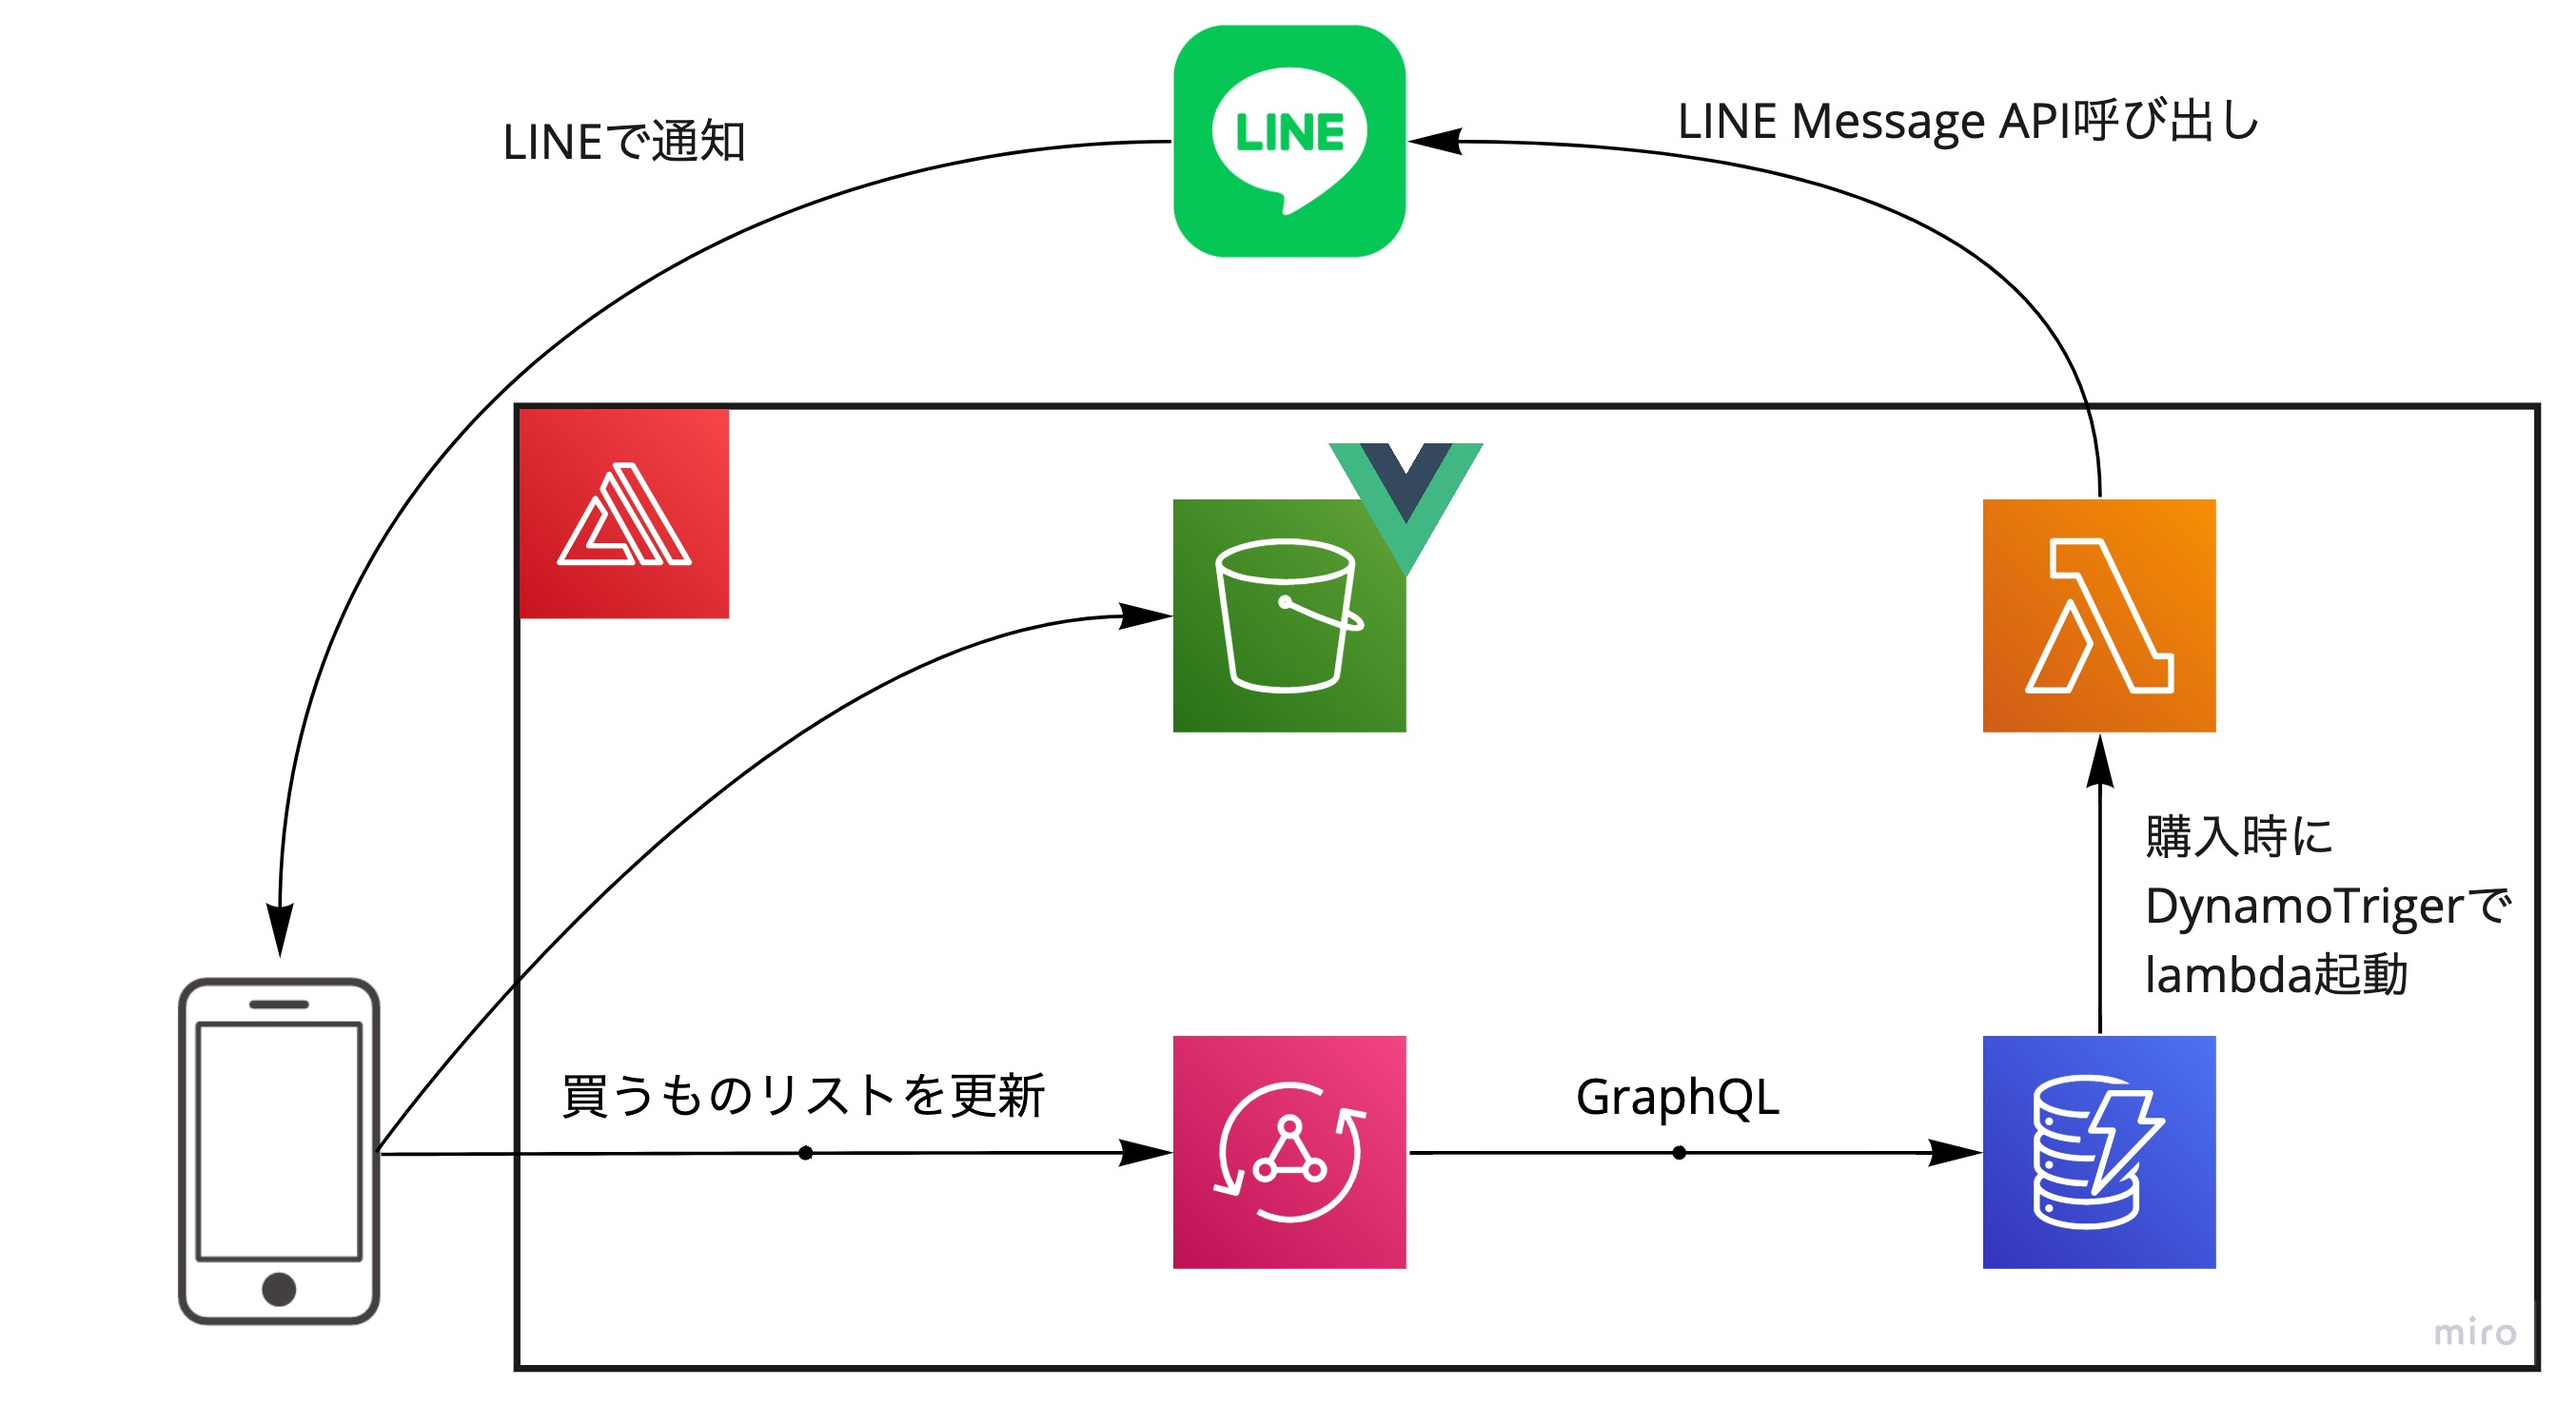
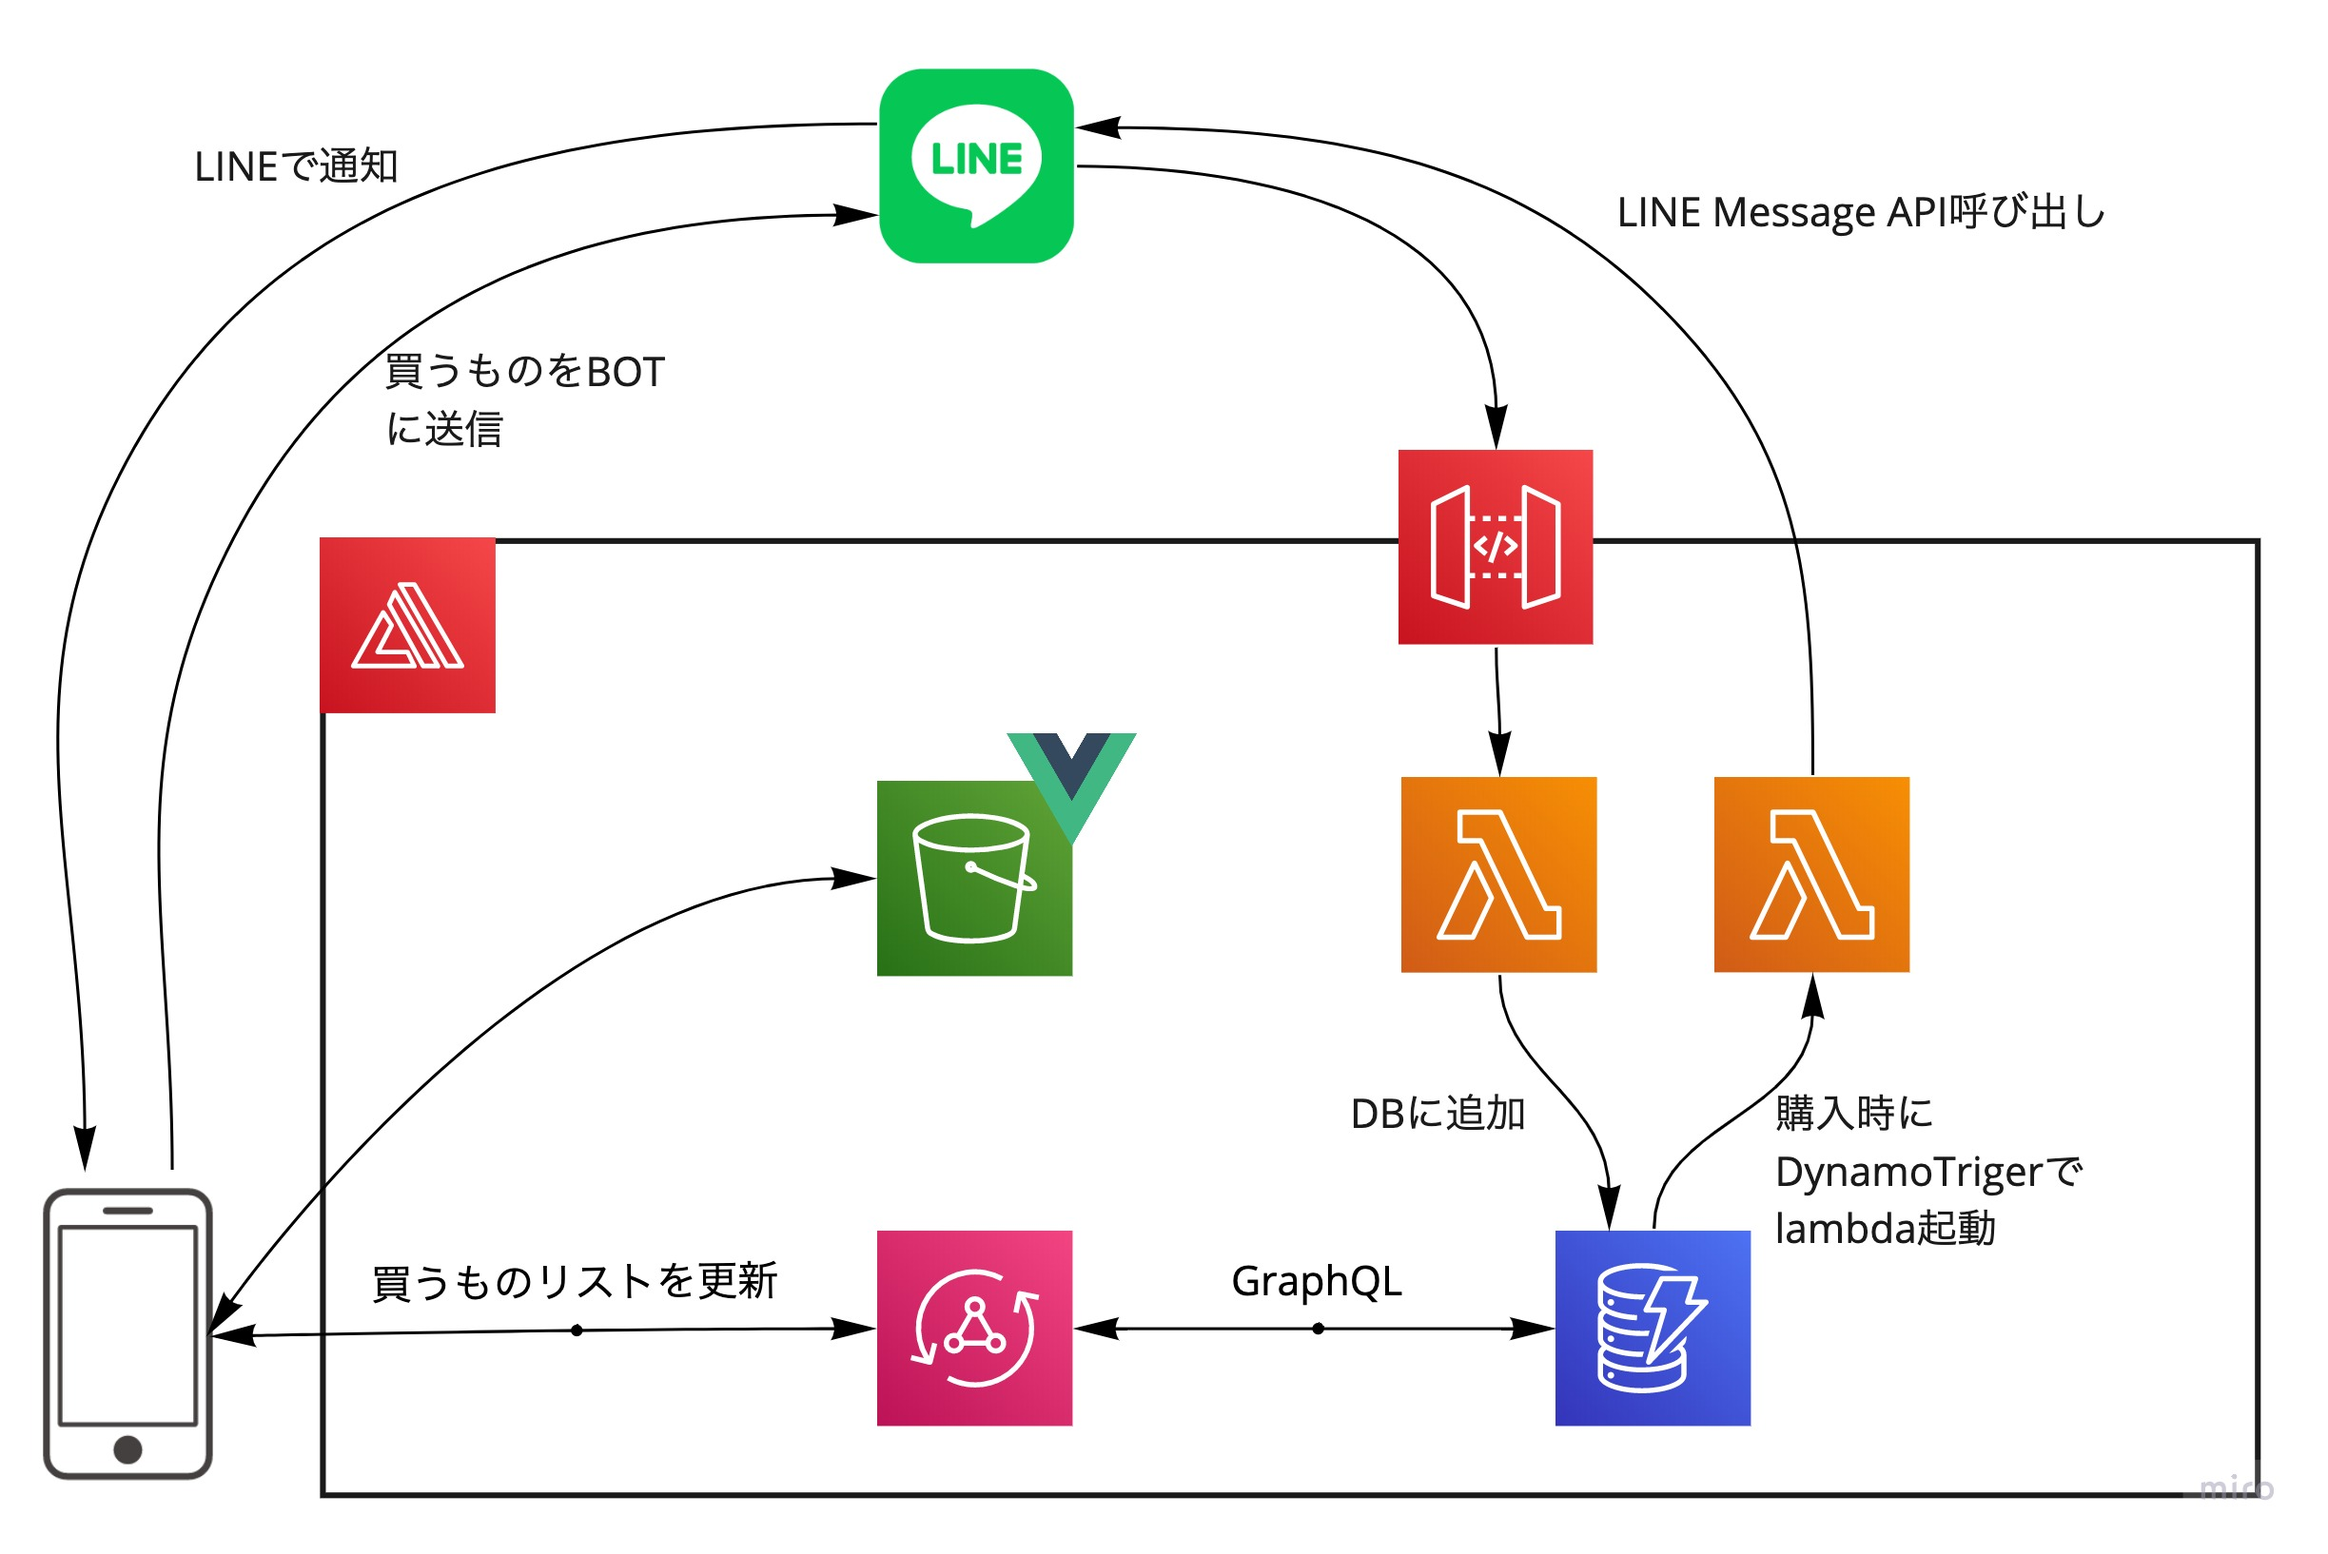
アイコン追加。構成図修正。

diff --git a/nuxt.config.js b/nuxt.config.js
@@ -9,8 +9,8 @@ export default {
 
   // Global page headers: https://go.nuxtjs.dev/config-head
   head: {
-    titleTemplate: '%s - nuxt-amplify-bulist',
-    title: 'nuxt-amplify-bulist',
+    titleTemplate: '%s - Bulist',
+    title: 'Bulist',
     meta: [
       { charset: 'utf-8' },
       { name: 'viewport', content: 'width=device-width, initial-scale=1' },
@@ -52,6 +52,7 @@ export default {
     manifest: {
       lang: 'en',
     },
+    icon: true,
   },
 
   // Vuetify module configuration: https://go.nuxtjs.dev/config-vuetify

diff --git a/pages/index.vue b/pages/index.vue
@@ -46,12 +46,14 @@ export default {
         query: createTodo,
         variables: { input: item },
       })
-      this.name = ''
+      this.name = '';
+      this.getTodos();
     },
     async getTodos() {
       const todos = await API.graphql({
         query: listTodos,
       })
+      console.log(todos)
       this.todos = todos.data.listTodos.items
       this.sort();
     },
